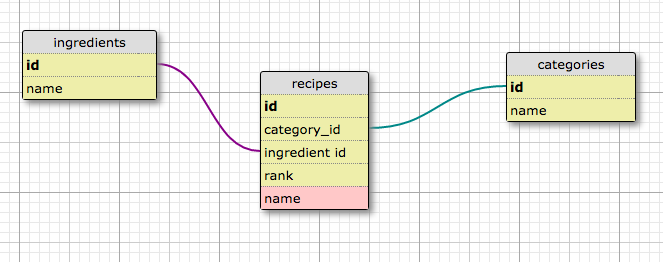
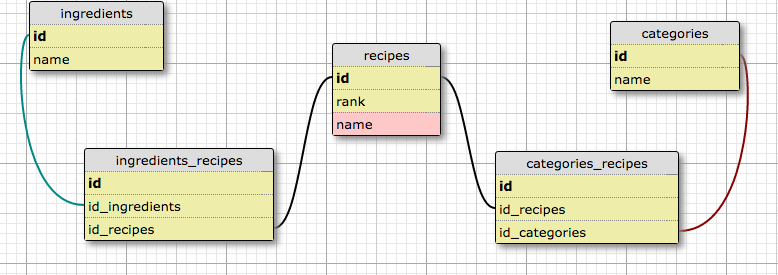
revises database

diff --git a/db/schema.rb b/db/schema.rb
@@ -1,0 +1,31 @@
+# This file is auto-generated from the current state of the database. Instead
+# of editing this file, please use the migrations feature of Active Record to
+# incrementally modify your database, and then regenerate this schema definition.
+#
+# Note that this schema.rb definition is the authoritative source for your
+# database schema. If you need to create the application database on another
+# system, you should be using db:schema:load, not running all the migrations
+# from scratch. The latter is a flawed and unsustainable approach (the more migrations
+# you'll amass, the slower it'll run and the greater likelihood for issues).
+#
+# It's strongly recommended that you check this file into your version control system.
+
+ActiveRecord::Schema.define(version: 20160720184520) do
+
+  # These are extensions that must be enabled in order to support this database
+  enable_extension "plpgsql"
+
+  create_table "categories", force: :cascade do |t|
+    t.string "name"
+  end
+
+  create_table "ingredients", force: :cascade do |t|
+    t.string "name"
+  end
+
+  create_table "recipes", force: :cascade do |t|
+    t.integer "rank"
+    t.string  "name"
+  end
+
+end

diff --git a/spec/recipe_spec.rb b/spec/recipe_spec.rb
@@ -1,0 +1,20 @@
+require("spec_helper")
+
+describe(Recipe) do
+  describe ("#categories") do
+    it("belongs to a category") do
+      test_category1 = Category.create({:name => "sweets"})
+      test_recipe = Recipe.create({:name => "blueberry cobbler", :category_id => test_category1.id})
+      expect(test_recipe.categories()).to(eq([test_category1]))
+    end
+  end
+  describe ("#ingredients") do
+    it("has ingredients associated with it") do
+      test_ingredient1 = Ingredient.create({:name => "sugar"})
+      test_recipe = Recipe.create({:name => "raspberry cobbler"})
+      test_recipe.ingredients.push(test_ingredient1)
+      # test_ingredient1.recipes.push(test_recipe)
+      expect(test_recipe.ingredients()).to(eq([test_ingredient1]))
+    end
+  end
+end

diff --git a/db/migrate/20160720171721_create_recipes.rb b/db/migrate/20160720171721_create_recipes.rb
@@ -1,0 +1,10 @@
+class CreateRecipes < ActiveRecord::Migration
+  def change
+    create_table(:recipes) do |t|
+      t.column(:category_id, :int)
+      t.column(:ingredient_id, :int)
+      t.column(:rank, :int)
+      t.column(:name, :string)
+    end
+  end
+end

diff --git a/db/migrate/20160720171019_create_ingredients.rb b/db/migrate/20160720171019_create_ingredients.rb
@@ -1,0 +1,7 @@
+class CreateIngredients < ActiveRecord::Migration
+  def change
+    create_table(:ingredients) do |t|
+      t.column(:name, :string)
+    end
+  end
+end

diff --git a/db/migrate/20160720172049_create_categories.rb b/db/migrate/20160720172049_create_categories.rb
@@ -1,0 +1,7 @@
+class CreateCategories < ActiveRecord::Migration
+  def change
+    create_table(:categories) { |t|
+      t.column(:name, :string)
+    }
+  end
+end

diff --git a/db/migrate/20160720184202_remove_ingredient_id_from_recipes.rb b/db/migrate/20160720184202_remove_ingredient_id_from_recipes.rb
@@ -1,0 +1,5 @@
+class RemoveIngredientIdFromRecipes < ActiveRecord::Migration
+  def change
+    remove_column(:recipes, :ingredient_id, :int)
+  end
+end

diff --git a/db/migrate/20160720184520_remove_category_id_from_recipes.rb b/db/migrate/20160720184520_remove_category_id_from_recipes.rb
@@ -1,0 +1,5 @@
+class RemoveCategoryIdFromRecipes < ActiveRecord::Migration
+  def change
+    remove_column(:recipes, :category_id, :int)
+  end
+end

diff --git a/lib/ingredient.rb b/lib/ingredient.rb
@@ -1,0 +1,4 @@
+class Ingredient < ActiveRecord::Base
+  has_many :recipes
+  has_many :categories, through: :recipes
+end

diff --git a/lib/category.rb b/lib/category.rb
@@ -1,0 +1,4 @@
+class Category < ActiveRecord::Base
+  has_many :recipes
+  has_many :ingredients, through: :recipes
+end

diff --git a/lib/recipe.rb b/lib/recipe.rb
@@ -1,0 +1,4 @@
+class Recipe < ActiveRecord::Base
+  belongs_to :category
+  belongs_to :ingredient
+end

diff --git a/spec/category_spec.rb b/spec/category_spec.rb
@@ -1,0 +1,5 @@
+# require("spec_helper")
+#
+# describe(Category) do
+#   describe('#recipes')
+#

diff --git a/spec/ingredient_spec.rb b/spec/ingredient_spec.rb
@@ -1,0 +1,1 @@
+# require("spec_helper")
